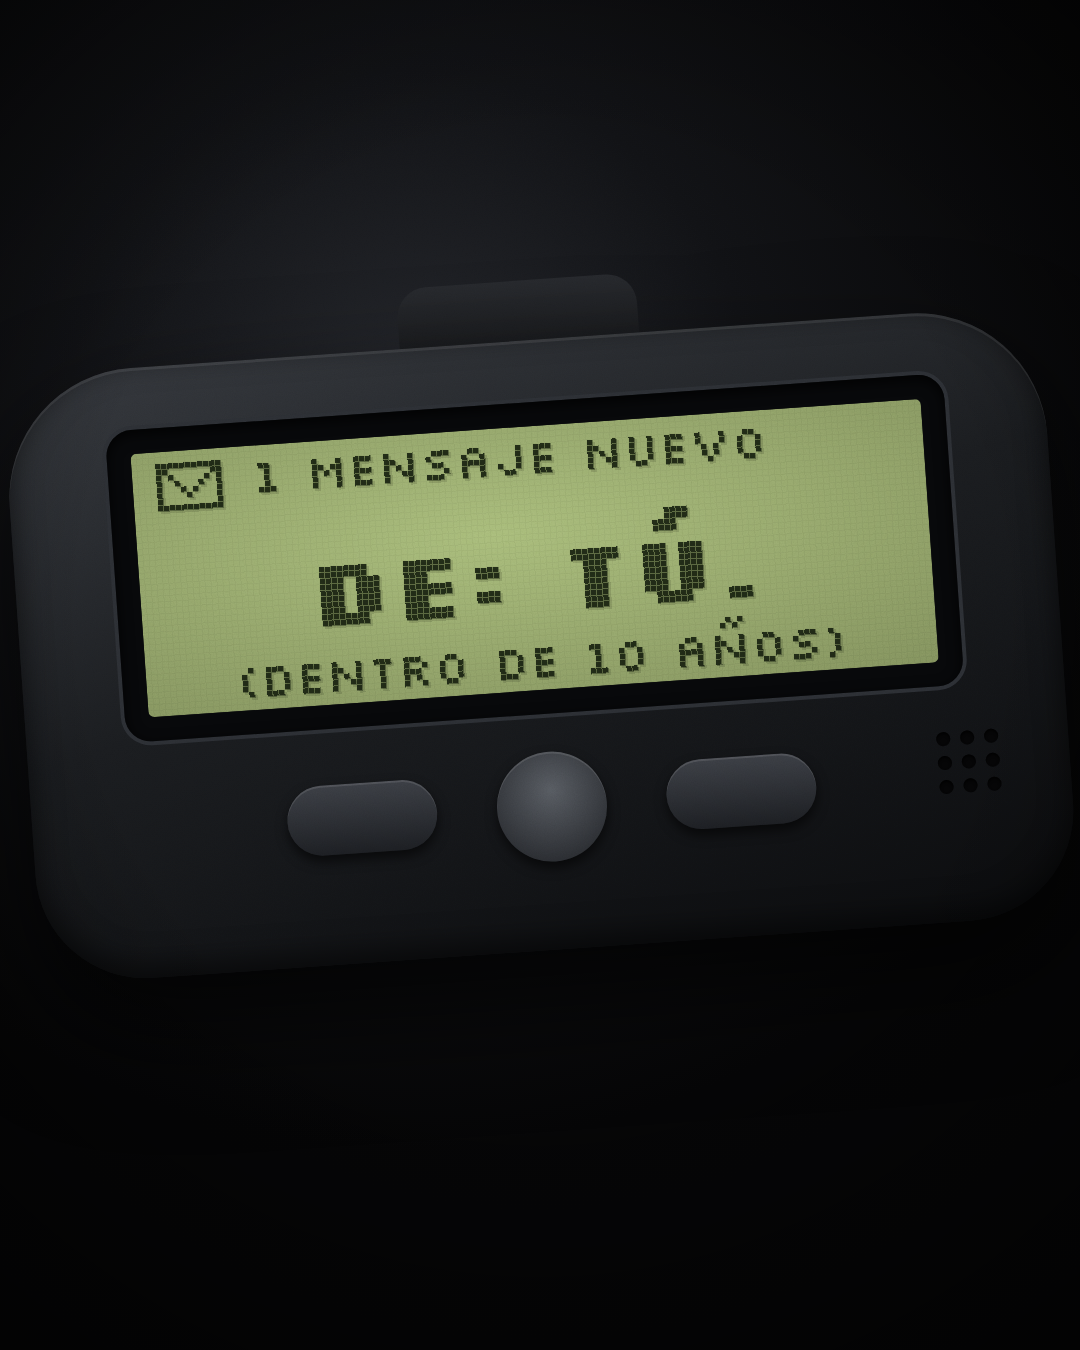
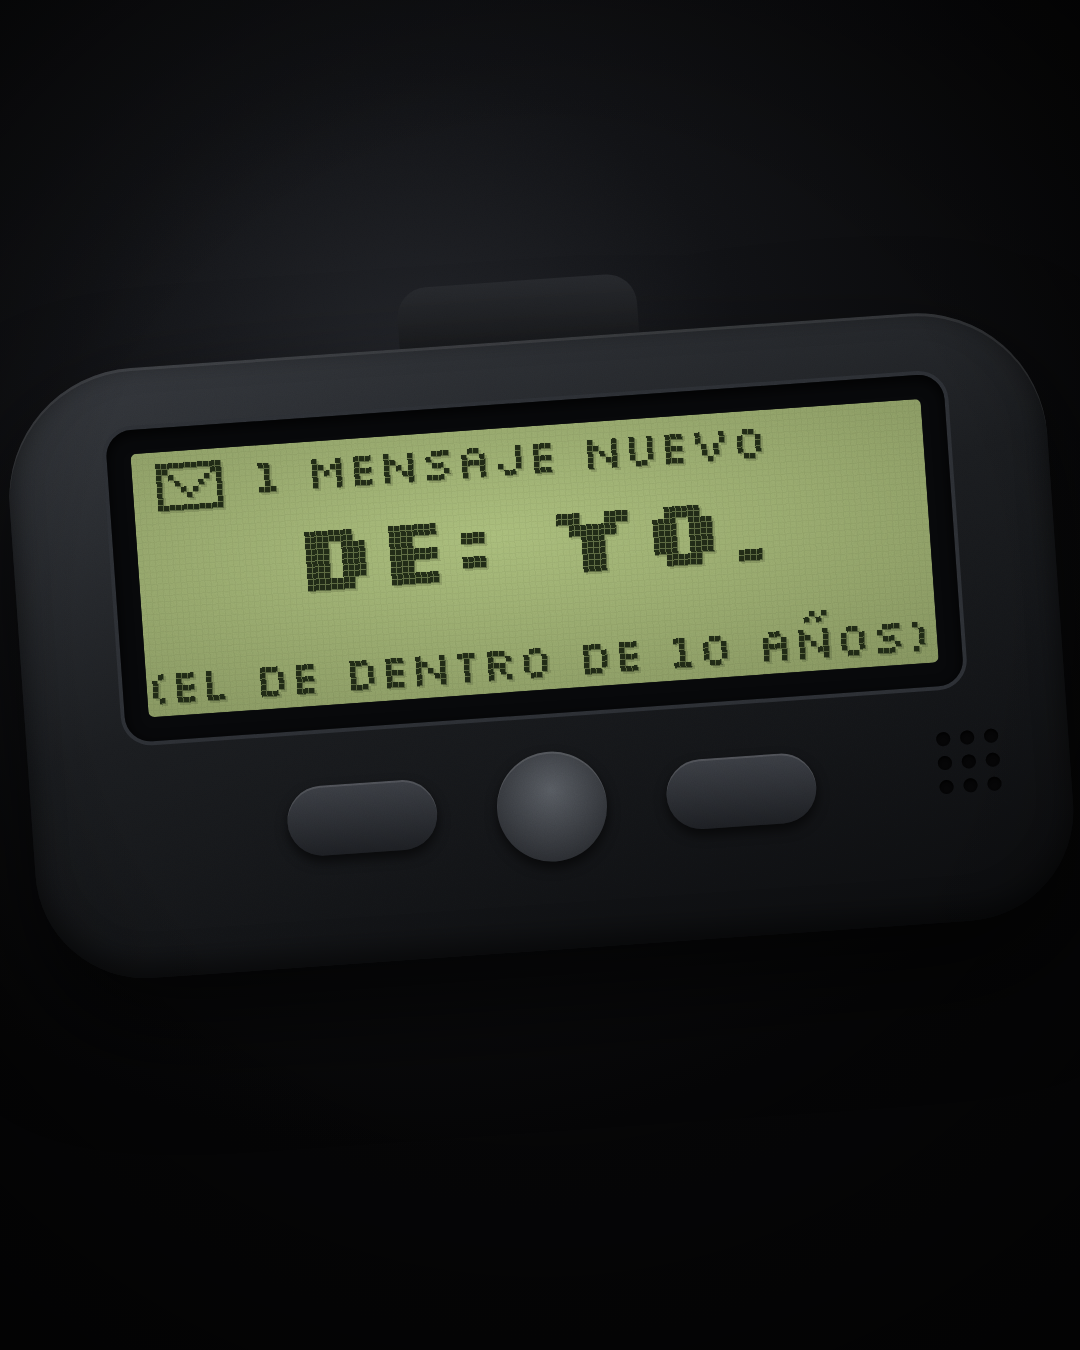
Carrusel 3: remitente más cercano («Oye, soy yo») y tercera imagen más clara
Claude-Session: https://claude.ai/code/session_01HTsUf3YPbCFvDYTT5mCSwm

Changed region(s): [[0.1222, 0.3733, 0.8556, 0.5289]]

diff --git a/marketing/carrusel-movil/v3/carrusel.html b/marketing/carrusel-movil/v3/carrusel.html
@@ -58,10 +58,10 @@ img{display:block;image-rendering:pixelated}
 .ladrillo .tope{position:absolute;top:36px;left:120px;right:120px;height:60px;border-radius:12px;
   background:repeating-linear-gradient(90deg,#0a0a0a 0 8px,#2a2a2a 8px 14px)}
 .ladrillo .lcdmarco{position:absolute;top:140px;left:50%;transform:translateX(-50%);padding:22px;border-radius:14px;background:#050505;box-shadow:inset 0 4px 14px rgba(0,0,0,.95),0 0 0 6px #2c2b29}
-.ladrillo .snd{position:absolute;top:430px;left:50px;right:50px;display:grid;grid-template-columns:repeat(3,1fr);gap:24px}
+.ladrillo .snd{position:absolute;top:500px;left:50px;right:50px;display:grid;grid-template-columns:repeat(3,1fr);gap:24px}
 .ladrillo .snd span{height:80px;font-size:34px;letter-spacing:2px}
 .ladrillo .snd span:nth-child(1){color:#7fd39a}.ladrillo .snd span:nth-child(3){color:#ff7b6b}
-.ladrillo .tec{position:absolute;top:550px;left:50px;right:50px;display:grid;grid-template-columns:repeat(3,1fr);gap:24px}
+.ladrillo .tec{position:absolute;top:620px;left:50px;right:50px;display:grid;grid-template-columns:repeat(3,1fr);gap:24px}
 .ladrillo .tec span{height:96px}
 
 /* ── tapa ── */

diff --git a/marketing/carrusel-movil/v3/estilo.css b/marketing/carrusel-movil/v3/estilo.css
@@ -58,10 +58,10 @@ img{display:block;image-rendering:pixelated}
 .ladrillo .tope{position:absolute;top:36px;left:120px;right:120px;height:60px;border-radius:12px;
   background:repeating-linear-gradient(90deg,#0a0a0a 0 8px,#2a2a2a 8px 14px)}
 .ladrillo .lcdmarco{position:absolute;top:140px;left:50%;transform:translateX(-50%);padding:22px;border-radius:14px;background:#050505;box-shadow:inset 0 4px 14px rgba(0,0,0,.95),0 0 0 6px #2c2b29}
-.ladrillo .snd{position:absolute;top:430px;left:50px;right:50px;display:grid;grid-template-columns:repeat(3,1fr);gap:24px}
+.ladrillo .snd{position:absolute;top:500px;left:50px;right:50px;display:grid;grid-template-columns:repeat(3,1fr);gap:24px}
 .ladrillo .snd span{height:80px;font-size:34px;letter-spacing:2px}
 .ladrillo .snd span:nth-child(1){color:#7fd39a}.ladrillo .snd span:nth-child(3){color:#ff7b6b}
-.ladrillo .tec{position:absolute;top:550px;left:50px;right:50px;display:grid;grid-template-columns:repeat(3,1fr);gap:24px}
+.ladrillo .tec{position:absolute;top:620px;left:50px;right:50px;display:grid;grid-template-columns:repeat(3,1fr);gap:24px}
 .ladrillo .tec span{height:96px}
 
 /* ── tapa ── */

diff --git a/marketing/carrusel-movil/v3/genera.py b/marketing/carrusel-movil/v3/genera.py
@@ -69,18 +69,18 @@ SOBRE = np.array([[c == "x" for c in r] for r in [
 # 1 · GANCHO — busca
 p1 = pantalla("p1", 132, 44, [
     ("bits", 2, SOBRE, {"x": 4}), ("t", 3, "1 MENSAJE NUEVO", {"x": 20}),
-    ("T", 15, "DE: TÚ.", {}),
-    ("t", 34, "(DENTRO DE 10 AÑOS)", {}),
+    ("T", 15, "DE: YO.", {}),
+    ("t", 34, "(EL DE DENTRO DE 10 AÑOS)", {}),
 ], 6, VERDE, NEGRO_LCD)
 # 2 · Nokia
 p2 = pantalla("p2", 96, 64, [
-    ("bar", 0, "TÚ · 2036", None), ("senal", 14, None, {"lado": "i"}), ("senal", 14, None, {"lado": "d"}),
-    ("t", 14, "SOY TÚ.", {}), ("t", 24, "EL DE 2036.", {}), ("t", 36, "NO VENGO A", {}), ("tb", 45, "ANIMARTE.", {"inv": True}),
+    ("bar", 0, "YO · 2036", None), ("senal", 14, None, {"lado": "i"}), ("senal", 14, None, {"lado": "d"}),
+    ("t", 14, "OYE, SOY YO.", {}), ("t", 24, "EL DE 2036.", {}), ("t", 36, "NO TE ESCRIBO", {}), ("tb", 45, "PARA ANIMARTE.", {"inv": True}),
     ("t", 57, "SIGUE", {}),
 ], 7, VERDE, NEGRO_LCD)
 # 3 · ladrillo
-p3 = pantalla("p3", 96, 34, [
-    ("t", 1, "CADA «MAÑANA", {}), ("t", 12, "EMPIEZO» ME", {}), ("tb", 23, "COSTÓ UN AÑO.", {}),
+p3 = pantalla("p3", 96, 45, [
+    ("t", 1, "¿TE ACUERDAS DEL", {}), ("t", 12, "«EMPIEZO EL", {}), ("t", 22, "LUNES»?", {}), ("tb", 34, "NUNCA LLEGÓ.", {"inv": True}),
 ], 6, AZULADO, (18, 30, 26), apagado=0.05)
 # 4 · tapa
 p4 = pantalla("p4", 96, 76, [
@@ -97,7 +97,7 @@ LB = logo_bits(26)
 p6 = pantalla("p6", 96, 64, [
     ("senal", 2, None, {"lado": "i"}), ("senal", 2, None, {"lado": "d"}),
     ("bits", 1, LB, {}), ("tb", 25, "D-CODE", {}),
-    ("t", 37, "RESPUESTA A TÚ:", {}), ("tb", 48, "VOY A POR TI.", {"inv": True}),
+    ("t", 37, "PARA: YO, 2036", {}), ("tb", 48, "VOY A POR TI.", {"inv": True}),
 ], 7, VERDE, NEGRO_LCD)
 print("pantallas listas")
 
